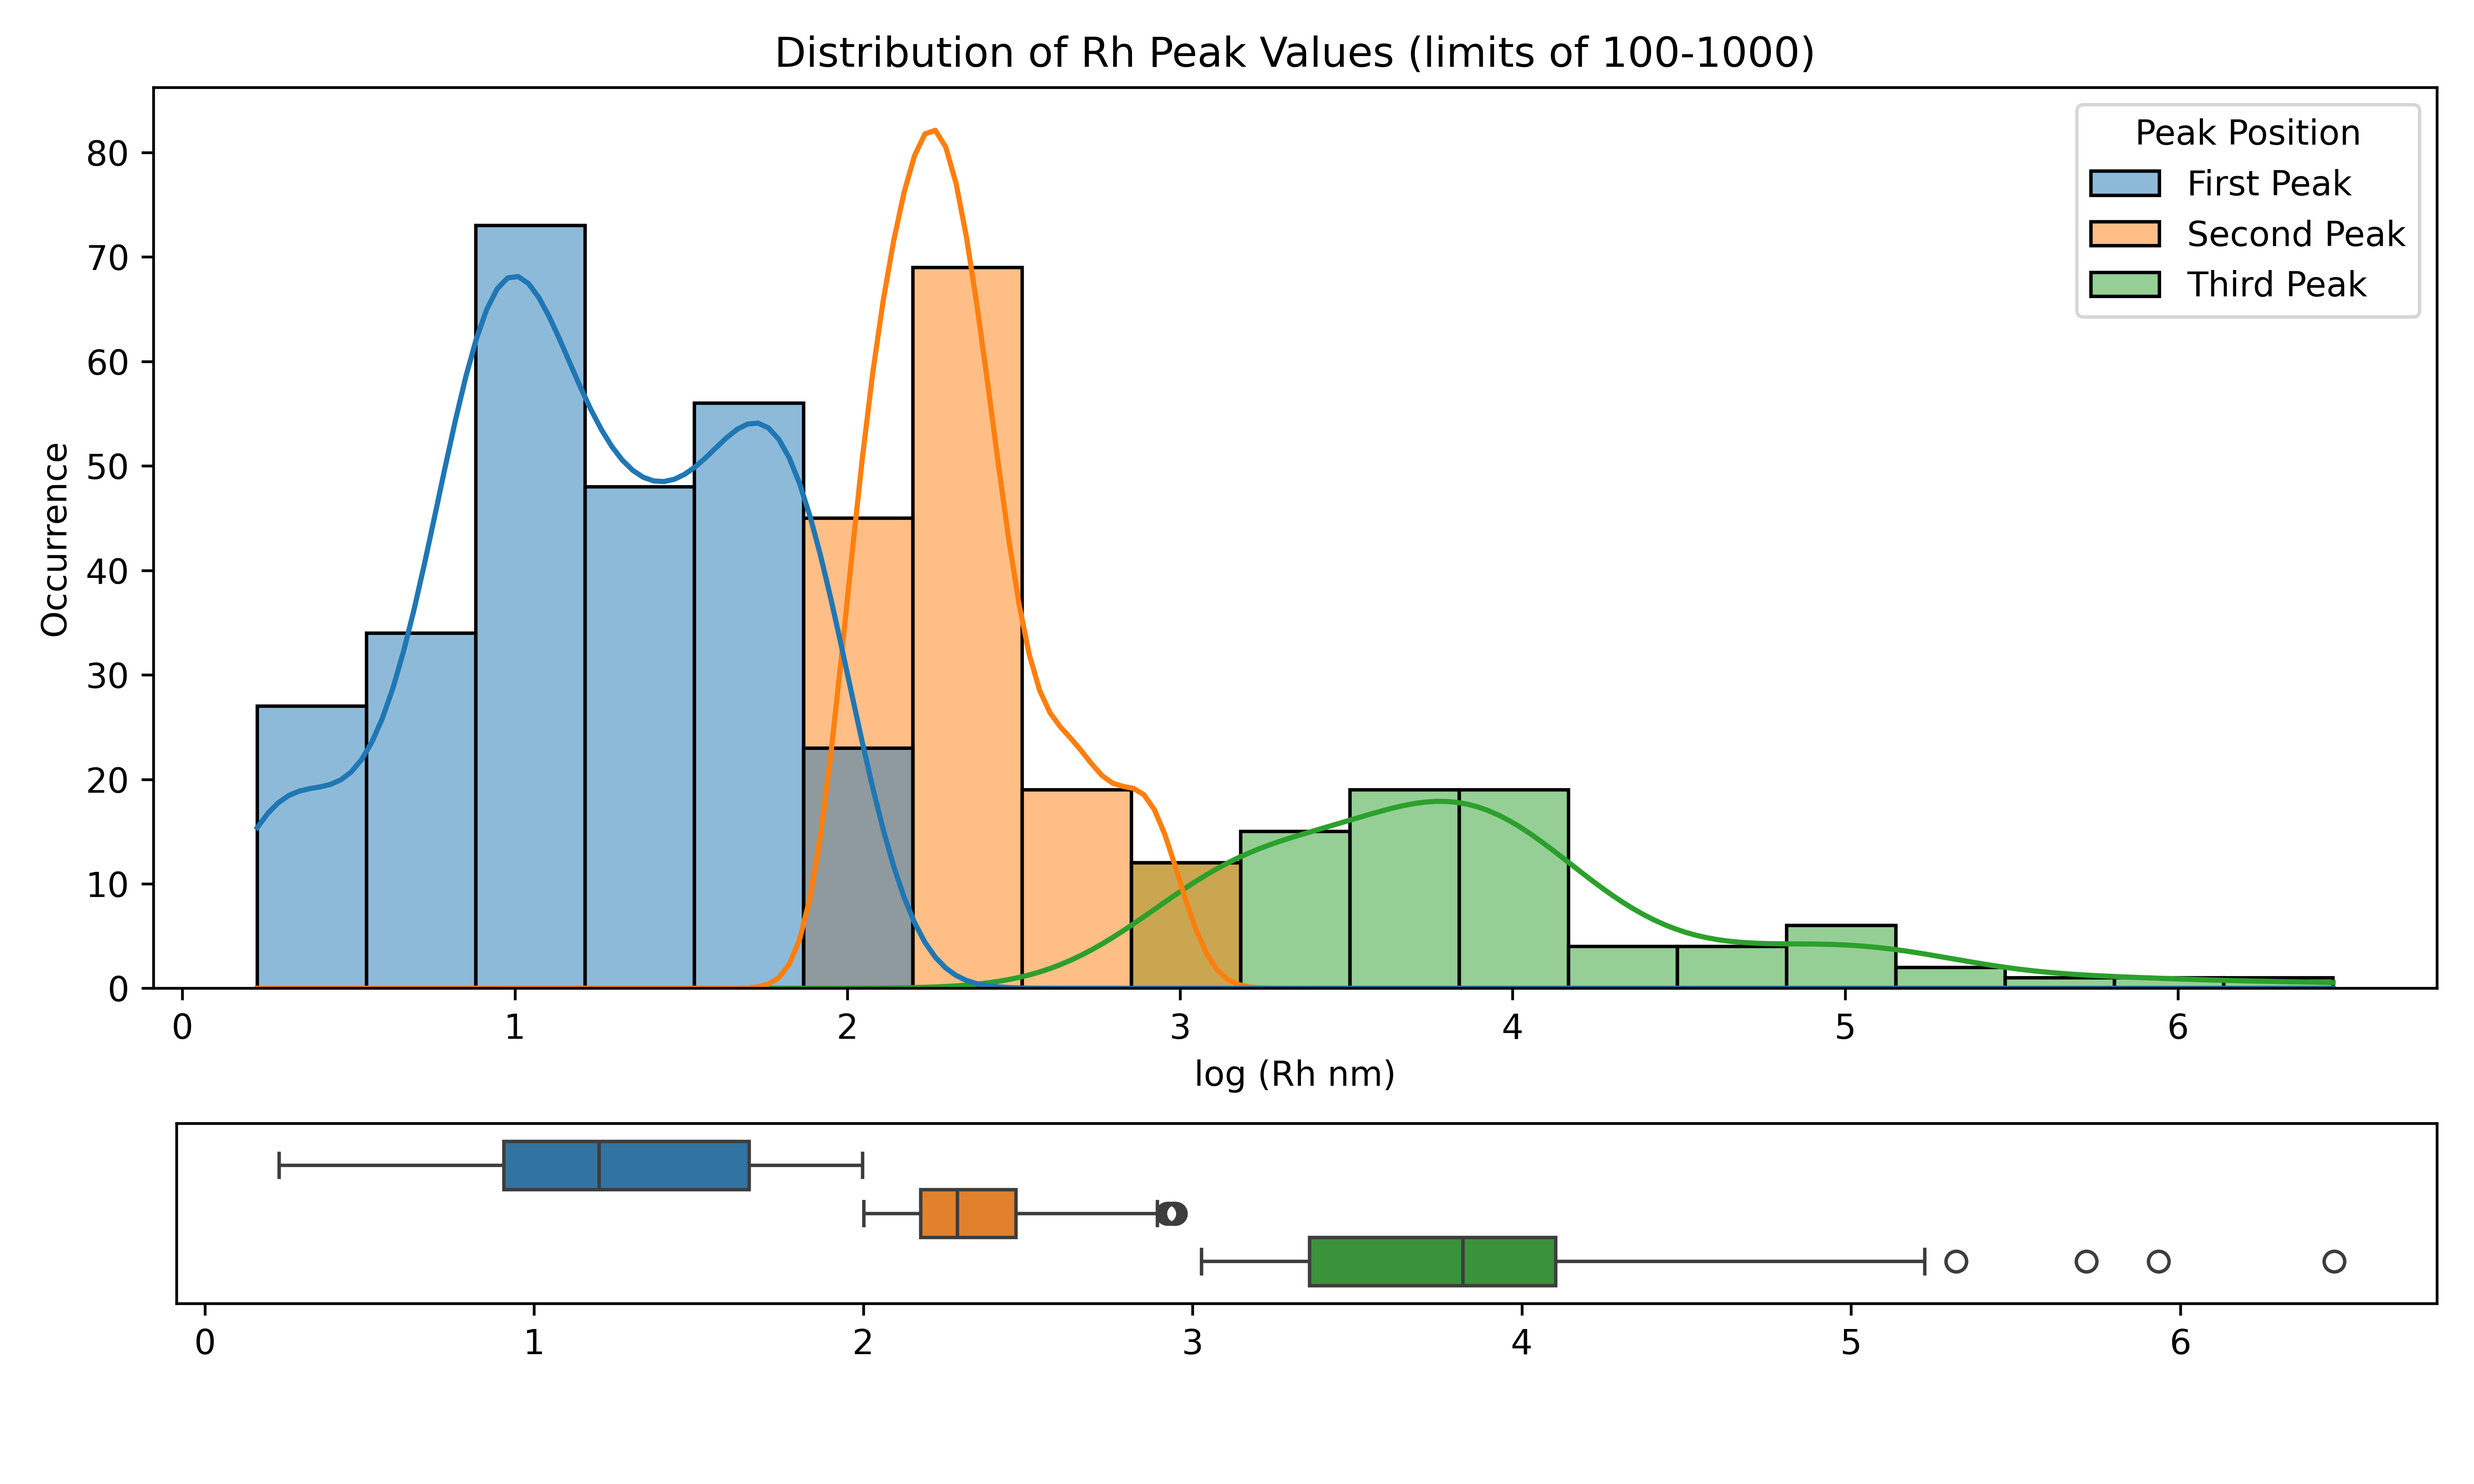
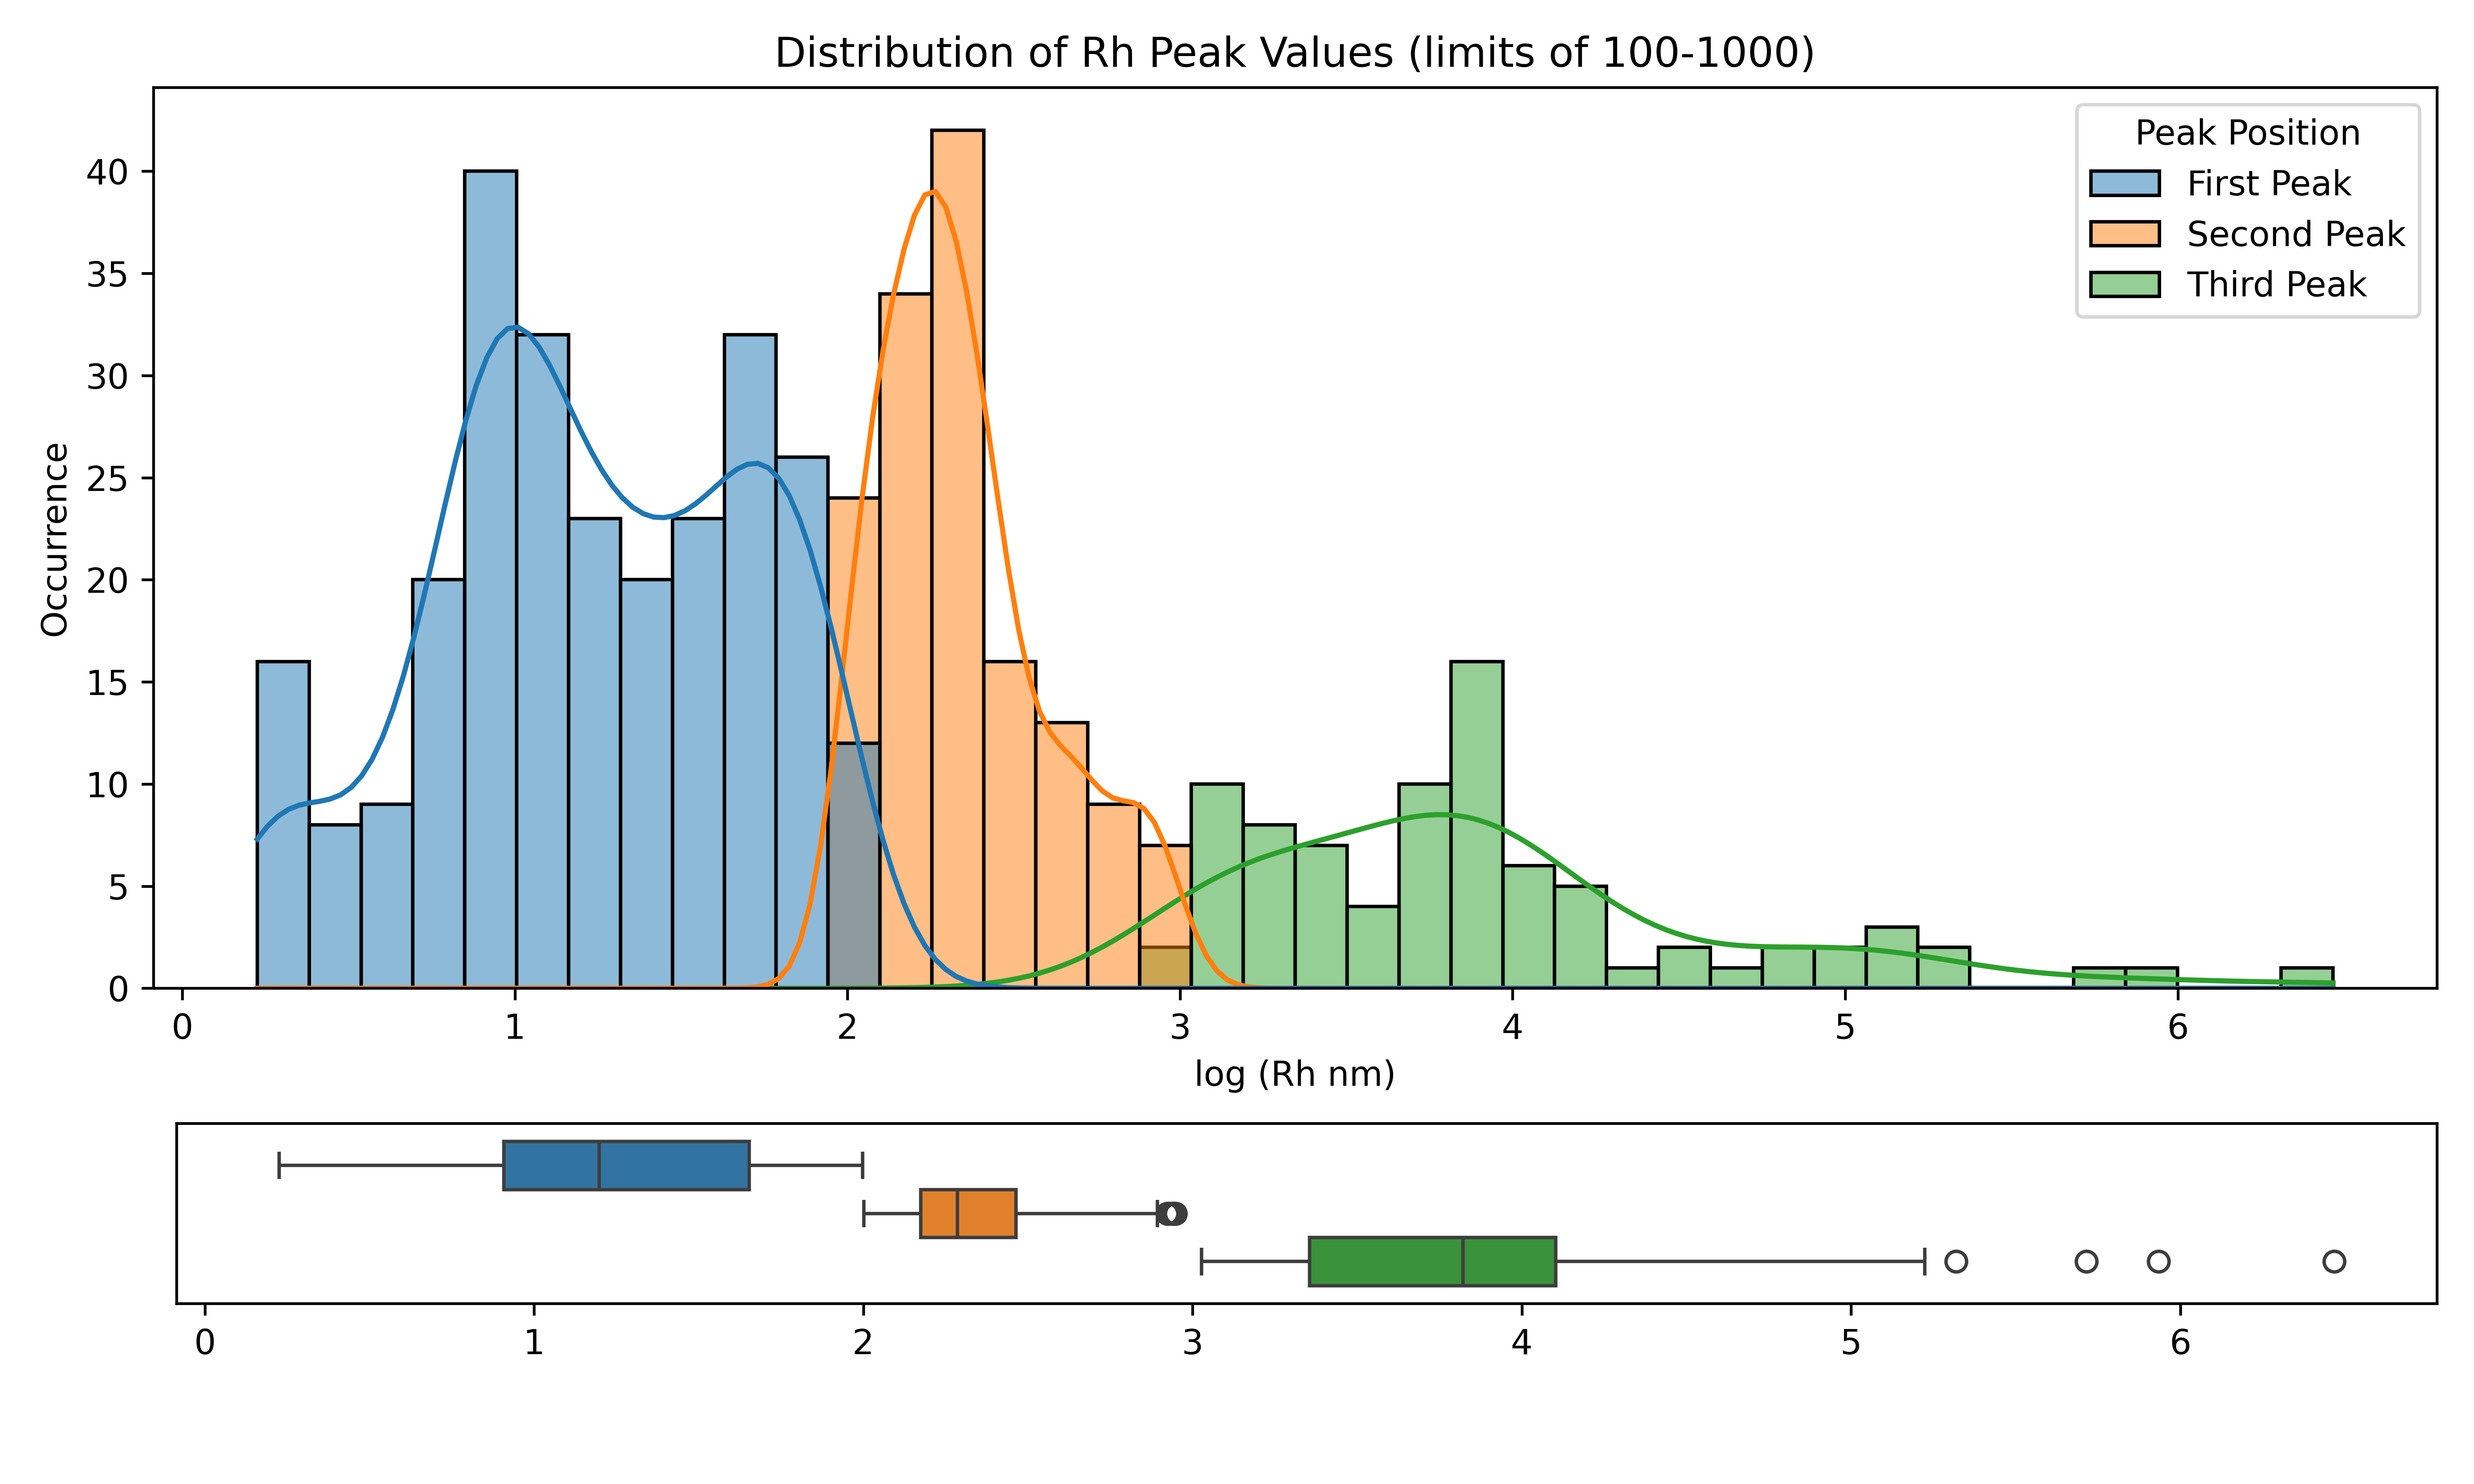
updated

diff --git a/code_/preprocessing/split_Rh_peaks.py b/code_/preprocessing/split_Rh_peaks.py
@@ -22,7 +22,6 @@ def intensity_weighted_average_over_log(R_h, peaks, intensity):
     weighted_avg = np.sum(np.log10(R_h) * I) / np.sum(I)
     return 10**weighted_avg
 
-# Function to reorder and pad values
 def reorder_and_pad(values, peaks, intensity,l1,l2):
     if values is None:
         return values
@@ -41,7 +40,6 @@ def reorder_and_pad(values, peaks, intensity,l1,l2):
         range_values = values[in_range]
 
         if len(range_values) > 1 and peaks is not None:
-            # Find corresponding peaks and apply weighted averaging
             range_peaks = np.array(peaks)[in_range]
             result[key] = intensity_weighted_average_over_log(
                 range_values.tolist(),
@@ -51,63 +49,172 @@ def reorder_and_pad(values, peaks, intensity,l1,l2):
         elif len(range_values) == 1:
             result[key] = range_values[0]
 
-    # Handle cases where peaks are None or not applicable
     if peaks is None:
         for key, (lower, upper) in ranges.items():
             in_range = (values >= lower) & (values < upper)
             if in_range.any():
-                result[key] = values[in_range][0]  # Assign the value directly
+                result[key] = values[in_range][0] 
 
     return result
 
 
-def plot_peak_distribution(data:pd.DataFrame, column_name:str,l1:int,l2:int):
-    # Reorder and pad values in the specified column
-    df= data.dropna(subset=[column_name])
-    reordered_df = pd.DataFrame(df[column_name].tolist(), columns=["First Peak", "Second Peak", "Third Peak"])
+# def plot_peak_distribution(data:pd.DataFrame, column_name:str,l1:int,l2:int):
+#     df= data.dropna(subset=[column_name])
+#     reordered_df = pd.DataFrame(df[column_name].tolist(), columns=["First Peak", "Second Peak", "Third Peak"])
 
-    # Melt the dataframe to long format for plotting
+#     melted_df = reordered_df.melt(var_name="Peak Position", value_name="Value")
+#     melted_df['transformed_value'] = np.log10(melted_df['Value'])
+
+#     fig, ax = plt.subplots(figsize=(10, 6))
+
+#     sns.histplot(data=melted_df, x="transformed_value", kde=True, hue="Peak Position",bins=40, ax=ax)
+
+#     ax.set_xlabel('log (Rh nm)')
+#     ax.set_ylabel('Occurrence')
+#     ax.set_title(f'Distribution of Rh Peak Values (limits of {l1}-{l2})')
+
+#     box_inset = ax.inset_axes([0.01, -0.35, 0.99, 0.2])  
+  
+#     sns.boxplot(x="transformed_value", data=melted_df, hue="Peak Position", ax=box_inset)
+#     box_inset.set(yticks=[], xlabel=None)
+#     box_inset.legend_.remove()
+#     plt.tight_layout()
+#     visualization_folder_path =  VISUALIZATION/"analysis and test"
+#     os.makedirs(visualization_folder_path, exist_ok=True)    
+#     fname = f"Distribution of Rh Peak Values after spliting (limits of {l1}-{l2} nm).png"
+#     plt.savefig(visualization_folder_path / fname, dpi=600)
+#     plt.close()
+
+def reorder_and_pad(values, peaks, intensity, l1, l2, l3):
+    if values is None:
+        return values
+
+    values = np.array(values)
+    ranges = {
+        0: (0, l1),
+        1: (l1, l2),
+        2: (l2, l3),
+        3: (l3, float('inf'))
+    }
+
+    result = [0, 0, 0, 0]  # Initialize result for 4 ranges
+
+    for key, (lower, upper) in ranges.items():
+        in_range = (values >= lower) & (values < upper)
+        range_values = values[in_range]
+
+        if len(range_values) > 1 and peaks is not None:
+            range_peaks = np.array(peaks)[in_range]
+            result[key] = intensity_weighted_average_over_log(
+                range_values.tolist(),
+                range_peaks.tolist(),
+                intensity
+            )
+        elif len(range_values) == 1:
+            result[key] = range_values[0]
+
+    if peaks is None:
+        for key, (lower, upper) in ranges.items():
+            in_range = (values >= lower) & (values < upper)
+            if in_range.any():
+                result[key] = values[in_range][0]
+
+    return result
+
+
+def plot_peak_distribution(data: pd.DataFrame, column_name: str, l1: int, l2: int, l3: int):
+    df = data.dropna(subset=[column_name])
+    reordered_df = pd.DataFrame(df[column_name].tolist(), columns=["First Peak", "Second Peak", "Third Peak", "Fourth Peak"])
+
     melted_df = reordered_df.melt(var_name="Peak Position", value_name="Value")
     melted_df['transformed_value'] = np.log10(melted_df['Value'])
-    # Plotting
+
     fig, ax = plt.subplots(figsize=(10, 6))
 
-    # Create histogram with KDE
-    sns.histplot(data=melted_df, x="transformed_value", kde=True, hue="Peak Position", ax=ax)
+    sns.histplot(data=melted_df, x="transformed_value", kde=True, hue="Peak Position", bins=40, ax=ax)
 
-    # Customize the histogram
     ax.set_xlabel('log (Rh nm)')
     ax.set_ylabel('Occurrence')
-    ax.set_title(f'Distribution of Rh Peak Values (limits of {l1}-{l2})')
+    ax.set_title(f'Distribution of Rh Peak Values (limits of {l1}-{l2}-{l3})')
 
-    # Create inset boxplot
-    box_inset = ax.inset_axes([0.01, -0.35, 0.99, 0.2])  # Adjust position for the inset box plot
-  
+    box_inset = ax.inset_axes([0.01, -0.35, 0.99, 0.2])
+
     sns.boxplot(x="transformed_value", data=melted_df, hue="Peak Position", ax=box_inset)
     box_inset.set(yticks=[], xlabel=None)
     box_inset.legend_.remove()
     plt.tight_layout()
-    visualization_folder_path =  VISUALIZATION/"analysis and test"
-    os.makedirs(visualization_folder_path, exist_ok=True)    
-    fname = f"Distribution of Rh Peak Values after spliting (limits of {l1}-{l2} nm).png"
+    
+    visualization_folder_path = VISUALIZATION / "analysis and test"
+    os.makedirs(visualization_folder_path, exist_ok=True)
+    fname = f"Distribution of Rh Peak Values after splitting (limits of {l1}-{l2}-{l3} nm).png"
     plt.savefig(visualization_folder_path / fname, dpi=600)
     plt.close()
 
 
+def plot_non_zero_counts(df:pd.DataFrame, column:str, num_indices:int=3):
+    """
+    Plots the count of non-zero elements at specified indices in a list column of a DataFrame.
+
+    Parameters:
+    - df: pandas DataFrame containing the data.
+    - column: str, the name of the column containing lists.
+    - num_indices: int, the number of indices to check in the lists.
+
+    Returns:
+    - None (displays a bar plot).
+    """
+    non_zero_counts = [
+        df[column].apply(lambda x: x[i] != 0 if isinstance(x, list) and len(x) > i else False).sum()
+        for i in range(num_indices)
+    ]
+
+    # Bar plot
+    plt.figure(figsize=(8, 6))
+    bars = plt.bar(range(1, num_indices + 1), non_zero_counts, color='skyblue', edgecolor='black')
+
+    # Annotate the values above each bar
+    for bar, count in zip(bars, non_zero_counts):
+        plt.text(bar.get_x() + bar.get_width() / 2, bar.get_height() + 0.5, str(count),
+                 ha='center', va='bottom', fontsize=18)
+
+    plt.xlabel('Peak Order', fontsize=14)
+    plt.ylabel('Frequency', fontsize=14)
+    plt.title(f'Non-Zero Counts at different peak orders (limits of {l1}-{l2}-{l3} nm)', fontsize=16)
+    plt.xticks(range(1, num_indices + 1))
+    plt.tight_layout()
+    visualization_folder_path =  VISUALIZATION/"analysis and test"
+    os.makedirs(visualization_folder_path, exist_ok=True)    
+    fname = f"Non-Zero Counts at different peak orders (limits of {l1}-{l2}-{l3} nm).png"
+    plt.savefig(visualization_folder_path / fname, dpi=600)
+    plt.close()
+
+# Example usage
+
+
+
+
+
 if __name__ == "__main__":
-    l1 = 30
-    l2 = 1000
-    w_data["multimodal Rh"] = w_data.apply(
-    lambda row: reorder_and_pad(
-        row["Rh at peaks (above 1 nm)"],
-        row["peak index (above 1 nm)"],
-        row["normalized intensity (0-1) corrected"],
-        l1=l1,
-        l2=l2,
-        # threshold=100000
-    ),
-    axis=1
-    )
-    # w_data.to_pickle(DATASETS/"training_dataset"/"dataset_wo_block_cp_(fp-hsp)_added_additive_dropped_polyHSP_dropped_peaks_appended_multimodal_added.pkl")
-    plot_peak_distribution(w_data,"multimodal Rh",l1,l2)
-    print(w_data)
+    # for i in [800,900,1000,1500,2500, 3000]:
+    
+        l1 = 30
+        l2 = 1000
+        l3=3500
+        w_data["multimodal Rh"] = w_data.apply(
+        lambda row: reorder_and_pad(
+            row["Rh at peaks (above 1 nm)"],
+            row["peak index (above 1 nm)"],
+            row["normalized intensity (0-1) corrected"],
+            l1=l1,
+            l2=l2,
+            l3=l3
+            # threshold=100000
+        ),
+        axis=1
+        )
+        
+        # w_data.to_pickle(DATASETS/"training_dataset"/"dataset_wo_block_cp_(fp-hsp)_added_additive_dropped_polyHSP_dropped_peaks_appended_multimodal_added.pkl")
+        plot_peak_distribution(w_data,"multimodal Rh",l1,l2,l3)
+        plot_non_zero_counts(w_data, 'multimodal Rh', 4)
+
+        # print(w_data)

diff --git a/code_/visualization/distribution_Rh.py b/code_/visualization/distribution_Rh.py
@@ -5,6 +5,7 @@ import matplotlib.pyplot as plt
 import seaborn as sns
 from pathlib import Path
 import os
+from matplotlib.ticker import MaxNLocator
 
 HERE: Path = Path(__file__).resolve().parent
 DATASETS: Path = HERE.parent.parent / "datasets"
@@ -17,10 +18,16 @@ flattened_df = working_data.explode("Rh at peaks (above 1 nm)", ignore_index=Tru
 flattened_df["Rh at peaks (above 1 nm)"] = pd.to_numeric(flattened_df["Rh at peaks (above 1 nm)"])
 
 plt.figure(figsize=(8, 6))
-sns.histplot(np.log10(flattened_df["Rh at peaks (above 1 nm)"]), bins=20, kde=True, color='blue', edgecolor='black')
 
-plt.title('Histogram of Flattened Values', fontsize=16)
-plt.xlabel('Values', fontsize=14)
+# Create the histogram
+sns.histplot(np.log10(flattened_df["Rh at peaks (above 1 nm)"]), bins=40, kde=True, color='blue', edgecolor='black')
+
+# Set title and axis labels
+plt.title("Distribution of Rh at peaks (above 1 nm)", fontsize=16)
+plt.xlabel('log (Rh (nm))', fontsize=14)
 plt.ylabel('Frequency', fontsize=14)
+
+# Increase the number of ticks on the x-axis
+plt.gca().xaxis.set_major_locator(MaxNLocator(nbins=25))  # Adjust `nbins` as needed
 
 plt.show()

diff --git a/code_/visualization/mood_distance.py b/code_/visualization/mood_distance.py
@@ -19,7 +19,6 @@ binary_vectors = np.array(unique_df["Monomer_ECFP12_binary_4096bits"].tolist())
 count_vectors = np.array(unique_df["Monomer_ECFP12_count_4096bits"].tolist())
 
 binary_tanimoto_similarities = 1 - pdist(binary_vectors, metric="jaccard")
-# Step 3: Visualize the distribution of Tanimoto similarities
 
 
 
@@ -35,7 +34,6 @@ data = pd.DataFrame({
     "Type": ["Binary"] * len(binary_tanimoto_similarities) + ["Count-based"] * len(count_tanimoto_similarities)
 })
 
-# Plot using seaborn
 sns.histplot(data, x="Similarity", hue="Type", kde=True, bins=20)
 plt.title("Comparison of Binary and Count-based Tanimoto Similarities")
 plt.xlabel("Tanimoto Similarity")
@@ -43,7 +41,7 @@ plt.ylabel("Frequency")
 plt.tight_layout()
 visualization_folder_path =  HERE/"analysis and test"
 os.makedirs(visualization_folder_path, exist_ok=True)    
-fname = "Comparison of Binary and Count-based Tanimoto Similarities"
+fname = "Comparison of Binary and Count-based Tanimoto Similarities (over Rg)"
 plt.savefig(visualization_folder_path / f"{fname}.png", dpi=600)
 plt.close()
 
